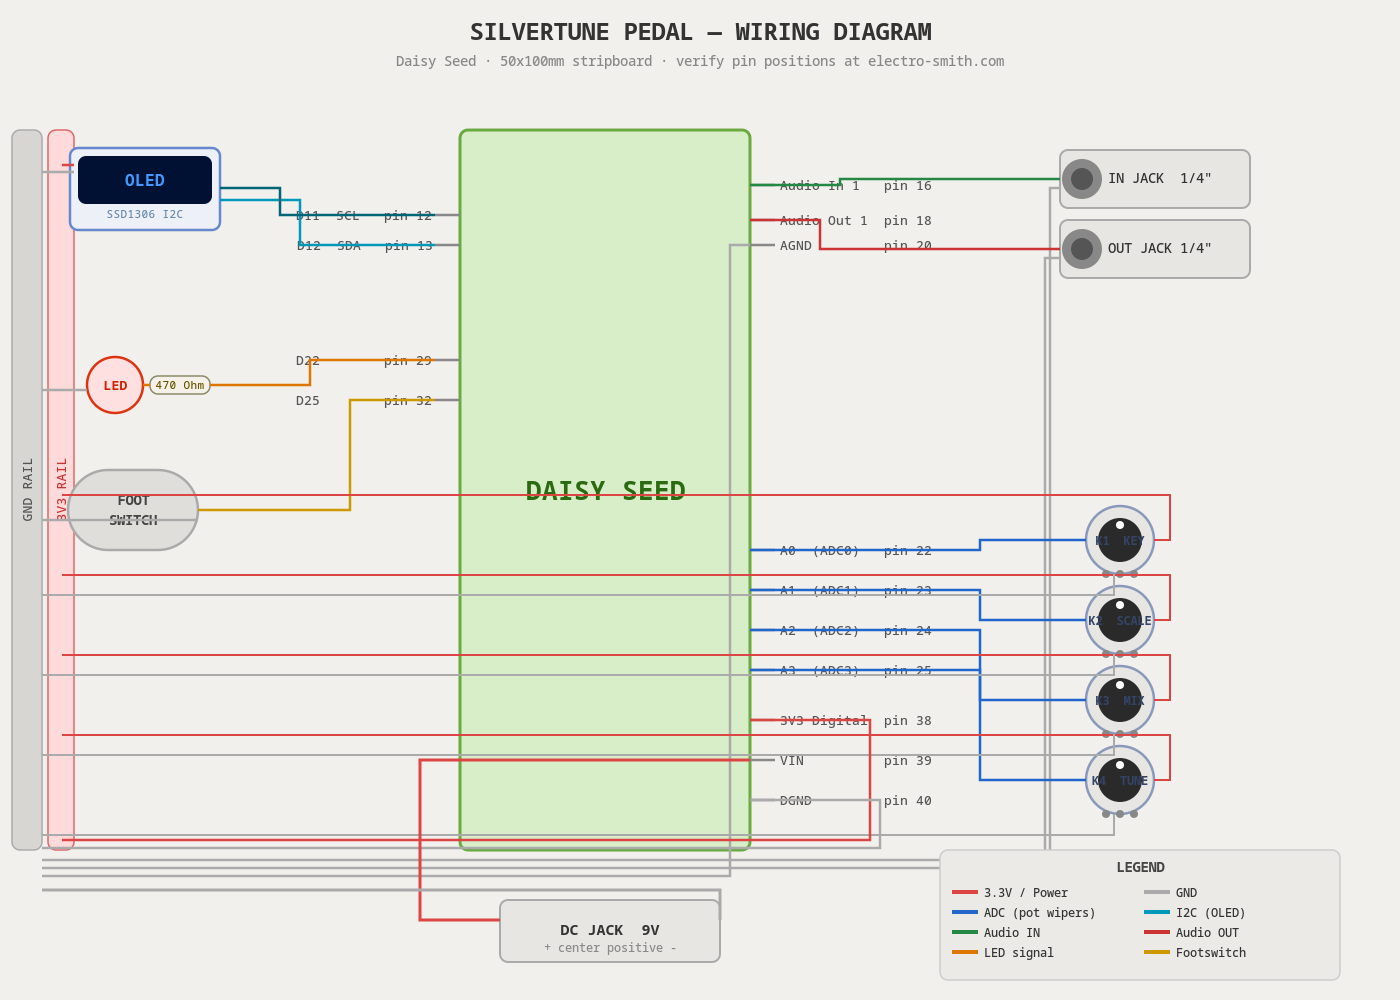
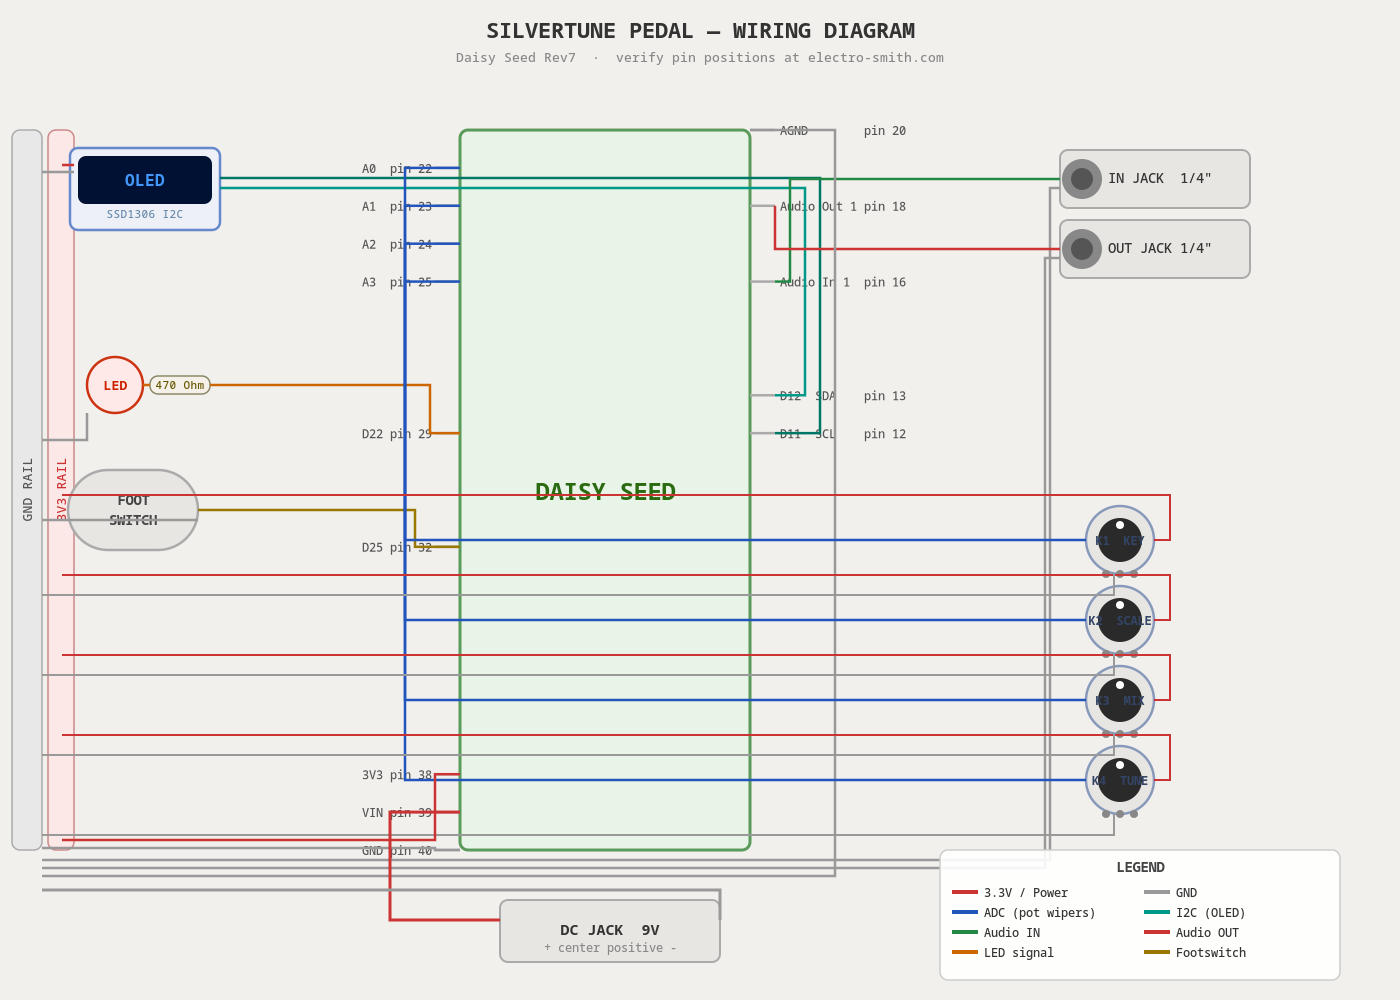
fix wiring diagram to match Daisy Seed Rev7 pinout

diff --git a/scripts/wiring_diagram.py b/scripts/wiring_diagram.py
@@ -58,37 +58,35 @@ def wire(pts, color, width=2.5):
 
 # ─── Colors ───────────────────────────────────────────────────────────────────
 BG         = '#f2f0ed'
-POWER_RED  = '#dd4444'
-GND_GRAY   = '#aaaaaa'
-ADC_BLUE   = '#2266cc'
-I2C_TEAL   = '#0099bb'
+POWER_RED  = '#cc3333'
+GND_GRAY   = '#999999'
+ADC_BLUE   = '#2255bb'
+I2C_TEAL   = '#009988'
 AUDIO_IN   = '#228844'
 AUDIO_OUT  = '#cc3333'
-LED_ORANGE = '#dd7700'
-FS_YELLOW  = '#cc9900'
-SEED_GREEN = '#d8eec8'
-SEED_BORDER= '#6aaa40'
-RAIL_RED   = '#ffdada'
-RAIL_GRAY  = '#d8d6d2'
+LED_ORANGE = '#cc6600'
+FS_YELLOW  = '#997700'
+SEED_GREEN = '#e8f4e8'
+SEED_BDR   = '#5a9a5a'
+RAIL_RED   = '#fde8e8'
+RAIL_GRAY  = '#e8e8e8'
 
 # ─── Background ───────────────────────────────────────────────────────────────
 col(BG); ctx.paint()
 
-txt('SILVERTUNE PEDAL — WIRING DIAGRAM', W/2, 40, 24, 'center', True, '#333333')
-txt('Daisy Seed · 50x100mm stripboard · verify pin positions at electro-smith.com',
-    W/2, 66, 14, 'center', False, '#888888')
+txt('SILVERTUNE PEDAL — WIRING DIAGRAM', W/2, 38, 22, 'center', True, '#333333')
+txt('Daisy Seed Rev7  ·  verify pin positions at electro-smith.com',
+    W/2, 62, 13, 'center', False, '#888888')
 
 # ─── Power Rails ──────────────────────────────────────────────────────────────
-# GND rail
 col(RAIL_GRAY); rrect(12, 130, 30, 720); ctx.fill()
 col('#aaaaaa'); ctx.set_line_width(1.5); rrect(12, 130, 30, 720); ctx.stroke()
 ctx.save(); ctx.translate(27, 490); ctx.rotate(-math.pi/2)
 txt('GND RAIL', 0, 5, 13, 'center', False, '#555555')
 ctx.restore()
 
-# 3V3 rail
 col(RAIL_RED); rrect(48, 130, 26, 720); ctx.fill()
-col('#dd6666'); ctx.set_line_width(1.5); rrect(48, 130, 26, 720); ctx.stroke()
+col('#cc8888'); ctx.set_line_width(1.5); rrect(48, 130, 26, 720); ctx.stroke()
 ctx.save(); ctx.translate(61, 490); ctx.rotate(-math.pi/2)
 txt('3V3 RAIL', 0, 5, 13, 'center', False, '#cc3333')
 ctx.restore()
@@ -96,39 +94,52 @@ ctx.restore()
 # ─── Daisy Seed ───────────────────────────────────────────────────────────────
 DS_X, DS_Y, DS_W, DS_H = 460, 130, 290, 720
 
-col(SEED_GREEN); rrect(DS_X, DS_Y, DS_W, DS_H); ctx.fill()
-col(SEED_BORDER); ctx.set_line_width(3); rrect(DS_X, DS_Y, DS_W, DS_H); ctx.stroke()
-txt('DAISY SEED', DS_X + DS_W/2, 500, 26, 'center', True, '#2a6a10')
+# Pin y-positions: 20 pins per side, evenly spaced
+# Left side: pins 21-40, top to bottom
+# Right side: pins 20-1, top to bottom
+PIN_STEP = DS_H / 19
 
-# Left pins (D-numbered, physical pins)
+def left_pin_y(pin):
+    """Pin 21=top, 40=bottom."""
+    return DS_Y + (pin - 21) * PIN_STEP
+
+def right_pin_y(pin):
+    """Pin 20=top, 1=bottom."""
+    return DS_Y + (20 - pin) * PIN_STEP
+
+col(SEED_GREEN); rrect(DS_X, DS_Y, DS_W, DS_H); ctx.fill()
+col(SEED_BDR); ctx.set_line_width(3); rrect(DS_X, DS_Y, DS_W, DS_H); ctx.stroke()
+txt('DAISY SEED', DS_X + DS_W/2, 500, 24, 'center', True, '#2a6a10')
+
+# Left pins (exit left from DS_X)
 LEFT_PINS = [
-    (215, 'D11  SCL   pin 12'),
-    (245, 'D12  SDA   pin 13'),
-    (360, 'D22        pin 29'),
-    (400, 'D25        pin 32'),
+    (left_pin_y(22), 'A0  pin 22'),
+    (left_pin_y(23), 'A1  pin 23'),
+    (left_pin_y(24), 'A2  pin 24'),
+    (left_pin_y(25), 'A3  pin 25'),
+    (left_pin_y(29), 'D22 pin 29'),
+    (left_pin_y(32), 'D25 pin 32'),
+    (left_pin_y(38), '3V3 pin 38'),
+    (left_pin_y(39), 'VIN pin 39'),
+    (left_pin_y(40), 'GND pin 40'),
 ]
 for py, label in LEFT_PINS:
-    col('#888888'); ctx.set_line_width(2.5)
+    col('#aaaaaa'); ctx.set_line_width(2.5)
     ctx.move_to(DS_X, py); ctx.line_to(DS_X - 25, py); ctx.stroke()
-    txt(label, DS_X - 28, py + 5, 13, 'right', False, '#555555')
+    txt(label, DS_X - 28, py + 5, 12, 'right', False, '#555555')
 
-# Right pins
+# Right pins (exit right from DS_X + DS_W)
 RIGHT_PINS = [
-    (185,  'Audio In 1   pin 16'),
-    (220,  'Audio Out 1  pin 18'),
-    (245,  'AGND         pin 20'),
-    (550,  'A0  (ADC0)   pin 22'),
-    (590,  'A1  (ADC1)   pin 23'),
-    (630,  'A2  (ADC2)   pin 24'),
-    (670,  'A3  (ADC3)   pin 25'),
-    (720,  '3V3 Digital  pin 38'),
-    (760,  'VIN          pin 39'),
-    (800,  'DGND         pin 40'),
+    (right_pin_y(20), 'AGND        pin 20'),
+    (right_pin_y(18), 'Audio Out 1 pin 18'),
+    (right_pin_y(16), 'Audio In 1  pin 16'),
+    (right_pin_y(13), 'D12  SDA    pin 13'),
+    (right_pin_y(12), 'D11  SCL    pin 12'),
 ]
 for py, label in RIGHT_PINS:
-    col('#888888'); ctx.set_line_width(2.5)
+    col('#aaaaaa'); ctx.set_line_width(2.5)
     ctx.move_to(DS_X + DS_W, py); ctx.line_to(DS_X + DS_W + 25, py); ctx.stroke()
-    txt(label, DS_X + DS_W + 30, py + 5, 13, 'left', False, '#555555')
+    txt(label, DS_X + DS_W + 30, py + 5, 12, 'left', False, '#555555')
 
 # ─── OLED ─────────────────────────────────────────────────────────────────────
 col('#eef0f8'); rrect(70, 148, 150, 82); ctx.fill()
@@ -138,15 +149,15 @@ txt('OLED', 145, 186, 16, 'center', True, '#4499ff')
 txt('SSD1306 I2C', 145, 218, 11, 'center', False, '#6688aa')
 
 # ─── LED ──────────────────────────────────────────────────────────────────────
-col('#ffe0e0'); circ(115, 385, 28); ctx.fill()
-col('#dd3311'); ctx.set_line_width(2.5); circ(115, 385, 28); ctx.stroke()
+col('#ffe8e8'); circ(115, 385, 28); ctx.fill()
+col('#cc3311'); ctx.set_line_width(2.5); circ(115, 385, 28); ctx.stroke()
 txt('LED', 115, 390, 13, 'center', True, '#cc2200')
 col('#f5f0e8'); rrect(150, 376, 60, 18); ctx.fill()
 col('#888866'); ctx.set_line_width(1.5); rrect(150, 376, 60, 18); ctx.stroke()
 txt('470 Ohm', 180, 389, 11, 'center', False, '#665500')
 
 # ─── Footswitch ───────────────────────────────────────────────────────────────
-col('#e0dedb'); rrect(68, 470, 130, 80, 40); ctx.fill()
+col('#e8e6e2'); rrect(68, 470, 130, 80, 40); ctx.fill()
 col('#aaaaaa'); ctx.set_line_width(2.5); rrect(68, 470, 130, 80, 40); ctx.stroke()
 txt('FOOT',   133, 505, 14, 'center', True, '#444444')
 txt('SWITCH', 133, 525, 14, 'center', True, '#444444')
@@ -189,43 +200,59 @@ txt('+ center positive -', 610, 952, 12, 'center', False, '#888888')
 
 # ─── Wires ────────────────────────────────────────────────────────────────────
 
-# OLED SDA → D12
-wire([(220, 200), (300, 200), (300, 245), (435, 245)], I2C_TEAL, 2.5)
-# OLED SCL → D11
-wire([(220, 188), (280, 188), (280, 215), (435, 215)], '#006677', 2.5)
+# OLED SDA → D12 (right side, pin 13)
+# Route over the top of the Daisy
+sda_y = right_pin_y(13)
+wire([(220, 188), (DS_X+DS_W+55, 188), (DS_X+DS_W+55, sda_y), (DS_X+DS_W+25, sda_y)], I2C_TEAL, 2.5)
+
+# OLED SCL → D11 (right side, pin 12)
+scl_y = right_pin_y(12)
+wire([(220, 178), (DS_X+DS_W+70, 178), (DS_X+DS_W+70, scl_y), (DS_X+DS_W+25, scl_y)], '#007766', 2.5)
+
 # OLED VCC → 3V3 rail
 wire([(74, 165), (62, 165)], POWER_RED, 2.5)
 # OLED GND → GND rail
 wire([(74, 172), (42, 172)], GND_GRAY, 2.5)
 
-# LED → 470R → D22
+# LED anode → 470R → D22 (left side, pin 29)
+d22_y = left_pin_y(29)
 wire([(143, 385), (150, 385)], LED_ORANGE, 2.5)
-wire([(210, 385), (310, 385), (310, 360), (435, 360)], LED_ORANGE, 2.5)
-# LED GND
-wire([(87, 390), (42, 390)], GND_GRAY, 2.5)
+wire([(210, 385), (DS_X-30, 385), (DS_X-30, d22_y), (DS_X, d22_y)], LED_ORANGE, 2.5)
+# LED cathode → GND rail
+wire([(87, 413), (87, 440), (42, 440)], GND_GRAY, 2.5)
 
-# Footswitch → D25
-wire([(198, 510), (350, 510), (350, 400), (435, 400)], FS_YELLOW, 2.5)
+# Footswitch → D25 (left side, pin 32)
+d25_y = left_pin_y(32)
+wire([(198, 510), (DS_X-45, 510), (DS_X-45, d25_y), (DS_X, d25_y)], FS_YELLOW, 2.5)
 # Footswitch GND
 wire([(198, 520), (42, 520)], GND_GRAY, 2.5)
 
-# IN jack → Audio In 1
-wire([(1060, 179), (840, 179), (840, 185), (750, 185)], AUDIO_IN, 2.5)
-# IN jack sleeve → GND
+# IN jack → Audio In 1 (right side, pin 16)
+ain_y = right_pin_y(16)
+wire([(1060, 179), (DS_X+DS_W+40, 179), (DS_X+DS_W+40, ain_y), (DS_X+DS_W+25, ain_y)], AUDIO_IN, 2.5)
+# IN jack sleeve → GND rail
 wire([(1060, 188), (1050, 188), (1050, 860), (42, 860)], GND_GRAY, 2.5)
 
-# OUT jack → Audio Out 1
-wire([(1060, 249), (820, 249), (820, 220), (750, 220)], AUDIO_OUT, 2.5)
-# OUT jack sleeve → GND
+# OUT jack → Audio Out 1 (right side, pin 18)
+aout_y = right_pin_y(18)
+wire([(1060, 249), (DS_X+DS_W+25, 249), (DS_X+DS_W+25, aout_y)], AUDIO_OUT, 2.5)
+# OUT jack sleeve → GND rail
 wire([(1060, 258), (1045, 258), (1045, 868), (42, 868)], GND_GRAY, 2.5)
 
-# AGND → GND rail
-wire([(750, 245), (730, 245), (730, 876), (42, 876)], GND_GRAY, 2.5)
+# AGND (right side, pin 20) → GND rail
+agnd_y = right_pin_y(20)
+wire([(DS_X+DS_W, agnd_y), (DS_X+DS_W+85, agnd_y), (DS_X+DS_W+85, 876), (42, 876)], GND_GRAY, 2.5)
 
-# Pot wipers → A0–A3
-POT_ADC = [(540, 550), (620, 590), (700, 630), (780, 670)]
+# Pot wipers → A0–A3 (left side, pins 22–25)
+# Route: wiper → left → route behind left components → enter Daisy left side
+POT_ADC = [
+    (540, left_pin_y(22)),
+    (620, left_pin_y(23)),
+    (700, left_pin_y(24)),
+    (780, left_pin_y(25)),
+]
 for ppy, apy in POT_ADC:
-    wire([(1086, ppy), (980, ppy), (980, apy), (750, apy)], ADC_BLUE, 2.5)
+    wire([(1086, ppy), (DS_X-55, ppy), (DS_X-55, apy), (DS_X, apy)], ADC_BLUE, 2.5)
 
 # Pot high lug → 3V3 rail
 for py in [540, 620, 700, 780]:
@@ -235,19 +262,22 @@ for py in [540, 620, 700, 780]:
 for py in [540, 620, 700, 780]:
     wire([(POT_X-6, py+34), (POT_X-6, py+55), (42, py+55)], GND_GRAY, 2)
 
-# Daisy 3V3 OUT → 3V3 rail
-wire([(750, 720), (870, 720), (870, 840), (62, 840)], POWER_RED, 2.5)
+# Daisy 3V3 OUT (left side, pin 38) → 3V3 rail
+v33_y = left_pin_y(38)
+wire([(DS_X, v33_y), (DS_X-25, v33_y), (DS_X-25, 840), (62, 840)], POWER_RED, 2.5)
 
-# Daisy DGND → GND rail
-wire([(750, 800), (880, 800), (880, 848), (42, 848)], GND_GRAY, 2.5)
+# Daisy DGND (left side, pin 40) → GND rail
+dgnd_y = left_pin_y(40)
+wire([(DS_X, dgnd_y), (DS_X-25, dgnd_y), (DS_X-25, 848), (42, 848)], GND_GRAY, 2.5)
 
-# DC jack + → VIN
-wire([(500, 920), (420, 920), (420, 760), (750, 760)], POWER_RED, 3)
-# DC jack - → GND rail
+# DC jack + → VIN (left side, pin 39)
+vin_y = left_pin_y(39)
+wire([(500, 920), (DS_X-70, 920), (DS_X-70, vin_y), (DS_X, vin_y)], POWER_RED, 3)
+# DC jack − → GND rail
 wire([(720, 920), (720, 890), (42, 890)], GND_GRAY, 3)
 
 # ─── Legend ───────────────────────────────────────────────────────────────────
-col('#eceae6'); rrect(940, 850, 400, 130); ctx.fill()
+col('#ffffff', 0.9); rrect(940, 850, 400, 130); ctx.fill()
 col('#cccccc'); ctx.set_line_width(1.5); rrect(940, 850, 400, 130); ctx.stroke()
 txt('LEGEND', 1140, 872, 14, 'center', True, '#444444')
 
